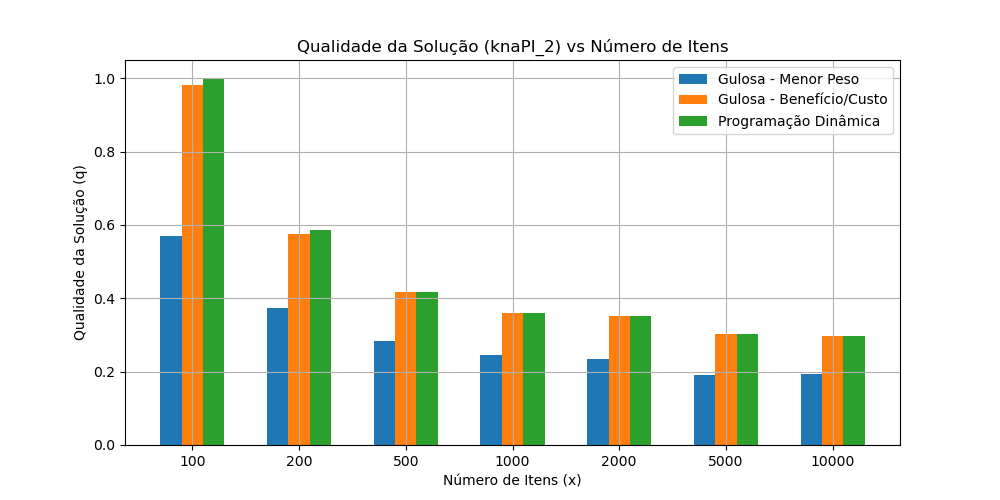
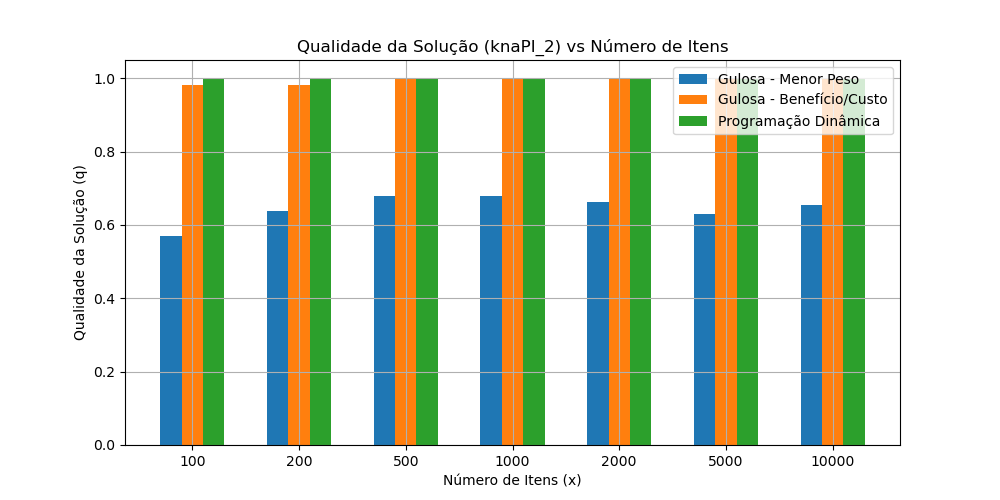
qualidade

diff --git a/T3/teste.py b/T3/teste.py
@@ -11,7 +11,7 @@ class Item:
 
 # Função para ler os dados dos três diretórios de arquivos
 def ler_dados(diretorio):
-    subpastas = ['knaPI_1', 'knaPI_2', 'knaPI_3']
+    subpastas = ['knaPI_2']
     dados = {}
 
     for subpasta in subpastas:
@@ -19,41 +19,24 @@ def ler_dados(diretorio):
         arquivos = os.listdir(caminho_pasta)
         dados[subpasta] = {}
 
-        # Lista para armazenar informações sobre os arquivos e número de itens
-        arquivos_com_itens = []
-
         for arquivo in arquivos:
             caminho_arquivo = os.path.join(caminho_pasta, arquivo)
             with open(caminho_arquivo, 'r') as f:
-                primeira_linha = f.readline().split()
+                linhas = f.readlines()
+                primeira_linha = linhas[0].split()
                 capacidade = int(primeira_linha[1])
                 itens = []
-                otimo = []  # Inicializar o vetor ótimo como vazio
-                for linha in f:
-                    linha = linha.strip()  # Remove espaços em branco no início e no final
-                    if not linha:  # Ignora linhas vazias
-                        continue
-                    if all(c in "01" for c in linha.replace(" ", "")):  # Verifica se a linha contém apenas '0' e '1'
-                        otimo = list(map(int, linha.split()))  # Converte a linha em lista de inteiros
-                    else:
-                        try:
-                            valor, peso = map(int, linha.split())
-                            itens.append(Item(peso, valor))
-                        except ValueError:
-                            print(f"Erro ao processar linha: {linha}")
-                            continue
-                
-                # Armazena o arquivo e o número de itens para ordenação
-                arquivos_com_itens.append((arquivo, capacidade, itens, otimo))
+                otimo = []
 
-        # Ordenar a lista de arquivos com base no número de itens (do menor para o maior)
-        arquivos_com_itens.sort(key=lambda x: len(x[2]))  # x[2] é a lista de itens
+                # Processa todos os itens (valor, peso)
+                for linha in linhas[1:-1]:  # Lê todas as linhas exceto a última (vetor ótimo)
+                    valor, peso = map(int, linha.split())
+                    itens.append(Item(peso, valor))
 
-        # Inserir os dados ordenados no dicionário
-        for arquivo, capacidade, itens, otimo in arquivos_com_itens:
-            dados[subpasta][arquivo] = {'capacidade': capacidade, 'itens': itens, 'otimo': otimo}
+                # Processa o vetor ótimo (última linha)
+                otimo = list(map(int, linhas[-1].strip().split()))
 
-        #print(f"Dados do arquivo '{arquivo}': Capacidade: {capacidade}, Quantidade de Itens: {len(itens)}, Tamanho do Vetor Ótimo: {len(otimo)}")
+                dados[subpasta][arquivo] = {'capacidade': capacidade, 'itens': itens, 'otimo': otimo}
 
     return dados
 
